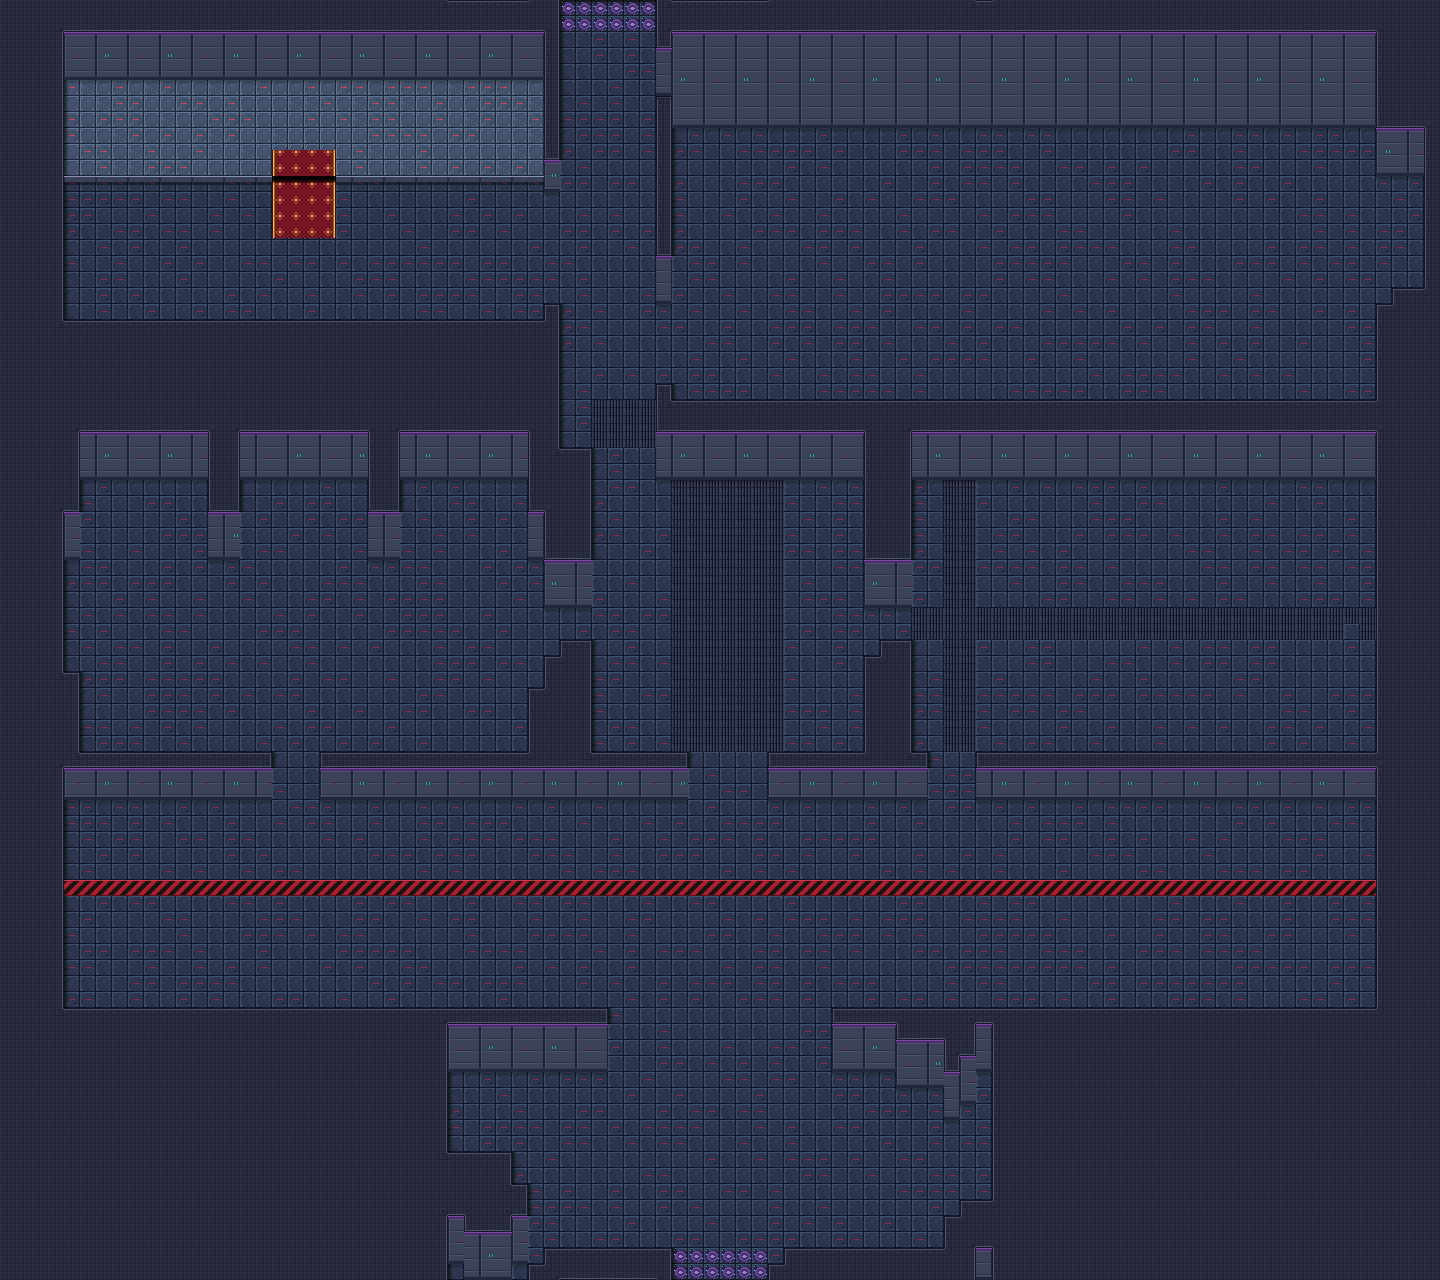
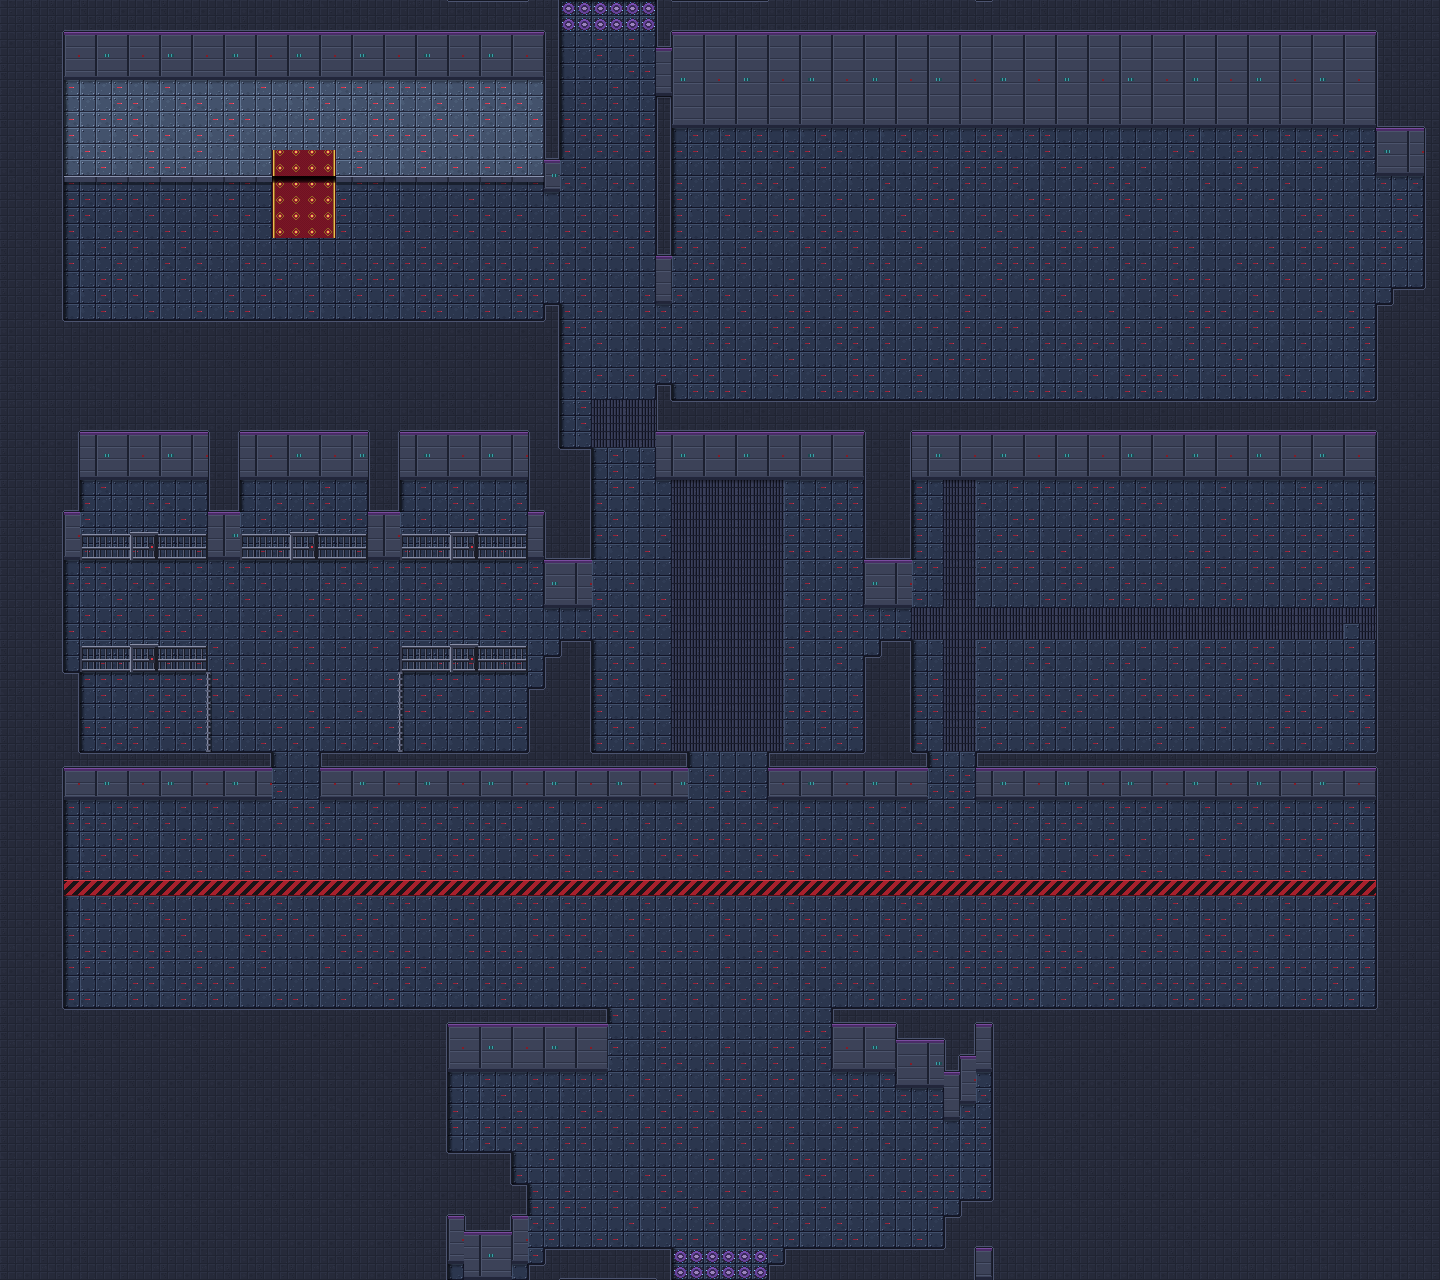
Karte 26: Mitte links als Zellentrakt - Gitterfronten mit Tuer und Schloss vor drei Zellen oben, zwei Eckzellen unten mit Kammern
Claude-Session: https://claude.ai/code/session_01SaoYHKhnro4LFcPJqjaPsq

diff --git a/tools/karte26_bauen.py b/tools/karte26_bauen.py
@@ -123,6 +123,44 @@ def podest(a, pm):
 TEPPICHE = [(272, 150, 336, 238)]       # Thronsaal: x 272..336 (4 Kacheln, Mitte 304), vom Podest bis vor den Holo-Tisch
 
 
+# Zellentrakt Mitte links (Nutzer: Zellen mit Gittern). Waagerecht: (x0, x1, Fusslinie y in px, Tuer-Mitte x | None);
+# senkrecht: (x, y0, y1) in px - Gitter von der Seite (Pfostenreihe).
+GITTER_W = [(5 * T, 13 * T, 35 * T, 9 * T), (15 * T, 23 * T, 35 * T, 19 * T), (25 * T, 33 * T, 35 * T, 29 * T),
+            (5 * T, 13 * T, 42 * T, 9 * T), (25 * T, 33 * T, 42 * T, 29 * T)]
+GITTER_S = [(13 * T, 42 * T, 47 * T), (25 * T, 42 * T, 47 * T)]
+
+
+def zellengitter(a, frame):
+    """Eisengitter frontal: Stangen 2 px alle 6 px, 26 px hoch, Ober-/Mittel-/Unterholm, Tuer mit Rahmen und
+    rot blinkendem Schloss; Licht von links (helle Kante), Kontaktschatten am Boden. Seitliche Gitter als
+    Pfostenreihe von oben (schmal)."""
+    D, M, L, HL = H('#1a1c26'), H('#3a3e52'), H('#5a6078'), H('#8a90a8')
+    hoch = 26
+    f = frame or 0
+    for (x0, x1, yb, tuer) in GITTER_W:
+        y0 = yb - hoch
+        a[yb:yb + 3, x0:x1] = (a[yb:yb + 3, x0:x1] * 0.6).astype(np.uint8)          # Kontaktschatten
+        for x in range(x0 + 1, x1 - 1, 6):
+            a[y0:yb, x] = L; a[y0:yb, x + 1] = D
+            a[y0:yb, x - 1] = (a[y0:yb, x - 1] * 0.8).astype(np.uint8) if x > x0 + 1 else a[y0:yb, x - 1]
+        for yy in (y0, y0 + hoch // 2, yb - 3):
+            a[yy:yy + 3, x0:x1] = M; a[yy, x0:x1] = HL; a[yy + 2, x0:x1] = D
+        a[y0:yb, x0:x0 + 2] = M; a[y0:yb, x1 - 2:x1] = D                          # Endpfosten
+        if tuer is not None:
+            t0, t1 = tuer - 14, tuer + 14
+            a[y0 - 2:yb, t0:t0 + 3] = M; a[y0 - 2:yb, t0] = HL
+            a[y0 - 2:yb, t1 - 3:t1] = D
+            a[y0 - 2:y0 + 1, t0:t1] = M; a[y0 - 2, t0:t1] = HL
+            ly = y0 + hoch // 2 - 3                                                  # Schloss mit Statuslicht
+            a[ly:ly + 7, t1 - 9:t1 - 3] = H('#2a2e3e')
+            a[ly + 2:ly + 4, t1 - 7:t1 - 5] = H('#e03040') if f % 2 == 0 else H('#801820')
+    for (x, y0, y1) in GITTER_S:
+        a[y0:y1, x - 1:x + 2] = M; a[y0:y1, x - 1] = HL; a[y0:y1, x + 1] = D
+        for y in range(y0, y1, 6):
+            a[y:y + 2, x - 2:x + 3] = L
+        a[y0:y1, x + 2:x + 4] = (a[y0:y1, x + 2:x + 4] * 0.65).astype(np.uint8)
+
+
 def bauen(frame=None, speichern=True):
     lay = json.load(open(os.path.join(KARTE, 'layout.json')))
     cls = lay['klassen']
@@ -151,6 +189,7 @@ def bauen(frame=None, speichern=True):
     wm = maske(cls, 'W')
     paneelwand(a, wm, frame)
     warnstreifen(a, maske(cls, 'r'))
+    zellengitter(a, frame)
     for tp in lay['teleporter']:
         k18.teleporter(a, tp, frame)
     img = Image.fromarray(a).convert('RGBA')

diff --git a/tools/karte26_objekte.py b/tools/karte26_objekte.py
@@ -51,10 +51,8 @@ LABOR = (                                                        # Brutlabor obe
     + [(SERVER, 9, {'px': 72 * T}), (LABTISCH, 10, {'px': 79 * T})]
 )
 
-LABOR2 = (                                                       # zweites Labor Mitte links (Nischen oben, Kammern unten), sparsam
-    [('kammer/12', 31, {'px': 9 * T}), ('kammer/02', 31, {'px': 19 * T}), ('kammer/06', 31, {'px': 29 * T})]
-    + [('kammer/01', 36, {'px': 14 * T}), ('kammer/01', 36, {'px': 24 * T})]       # Gelaender mit Glastuer zwischen den Nischen
-    + [('kammer/00', 46, {'px': int(x * T), 'anim': 'lampe'}) for x in (6.75, 10.25, 27.75, 31.25)]   # dunkle Kammern in den Ecken (Vorlage)
+LABOR2 = (                                                       # Zellentrakt Mitte links (Nutzer: Zellen mit Gittern, Gitter in karte26_bauen)
+    [('kammer/00', 46, {'px': int(x * T), 'anim': 'lampe'}) for x in (7.25, 10.75, 27.25, 30.75)]   # Kammern in den Eckzellen
 )
 
 
